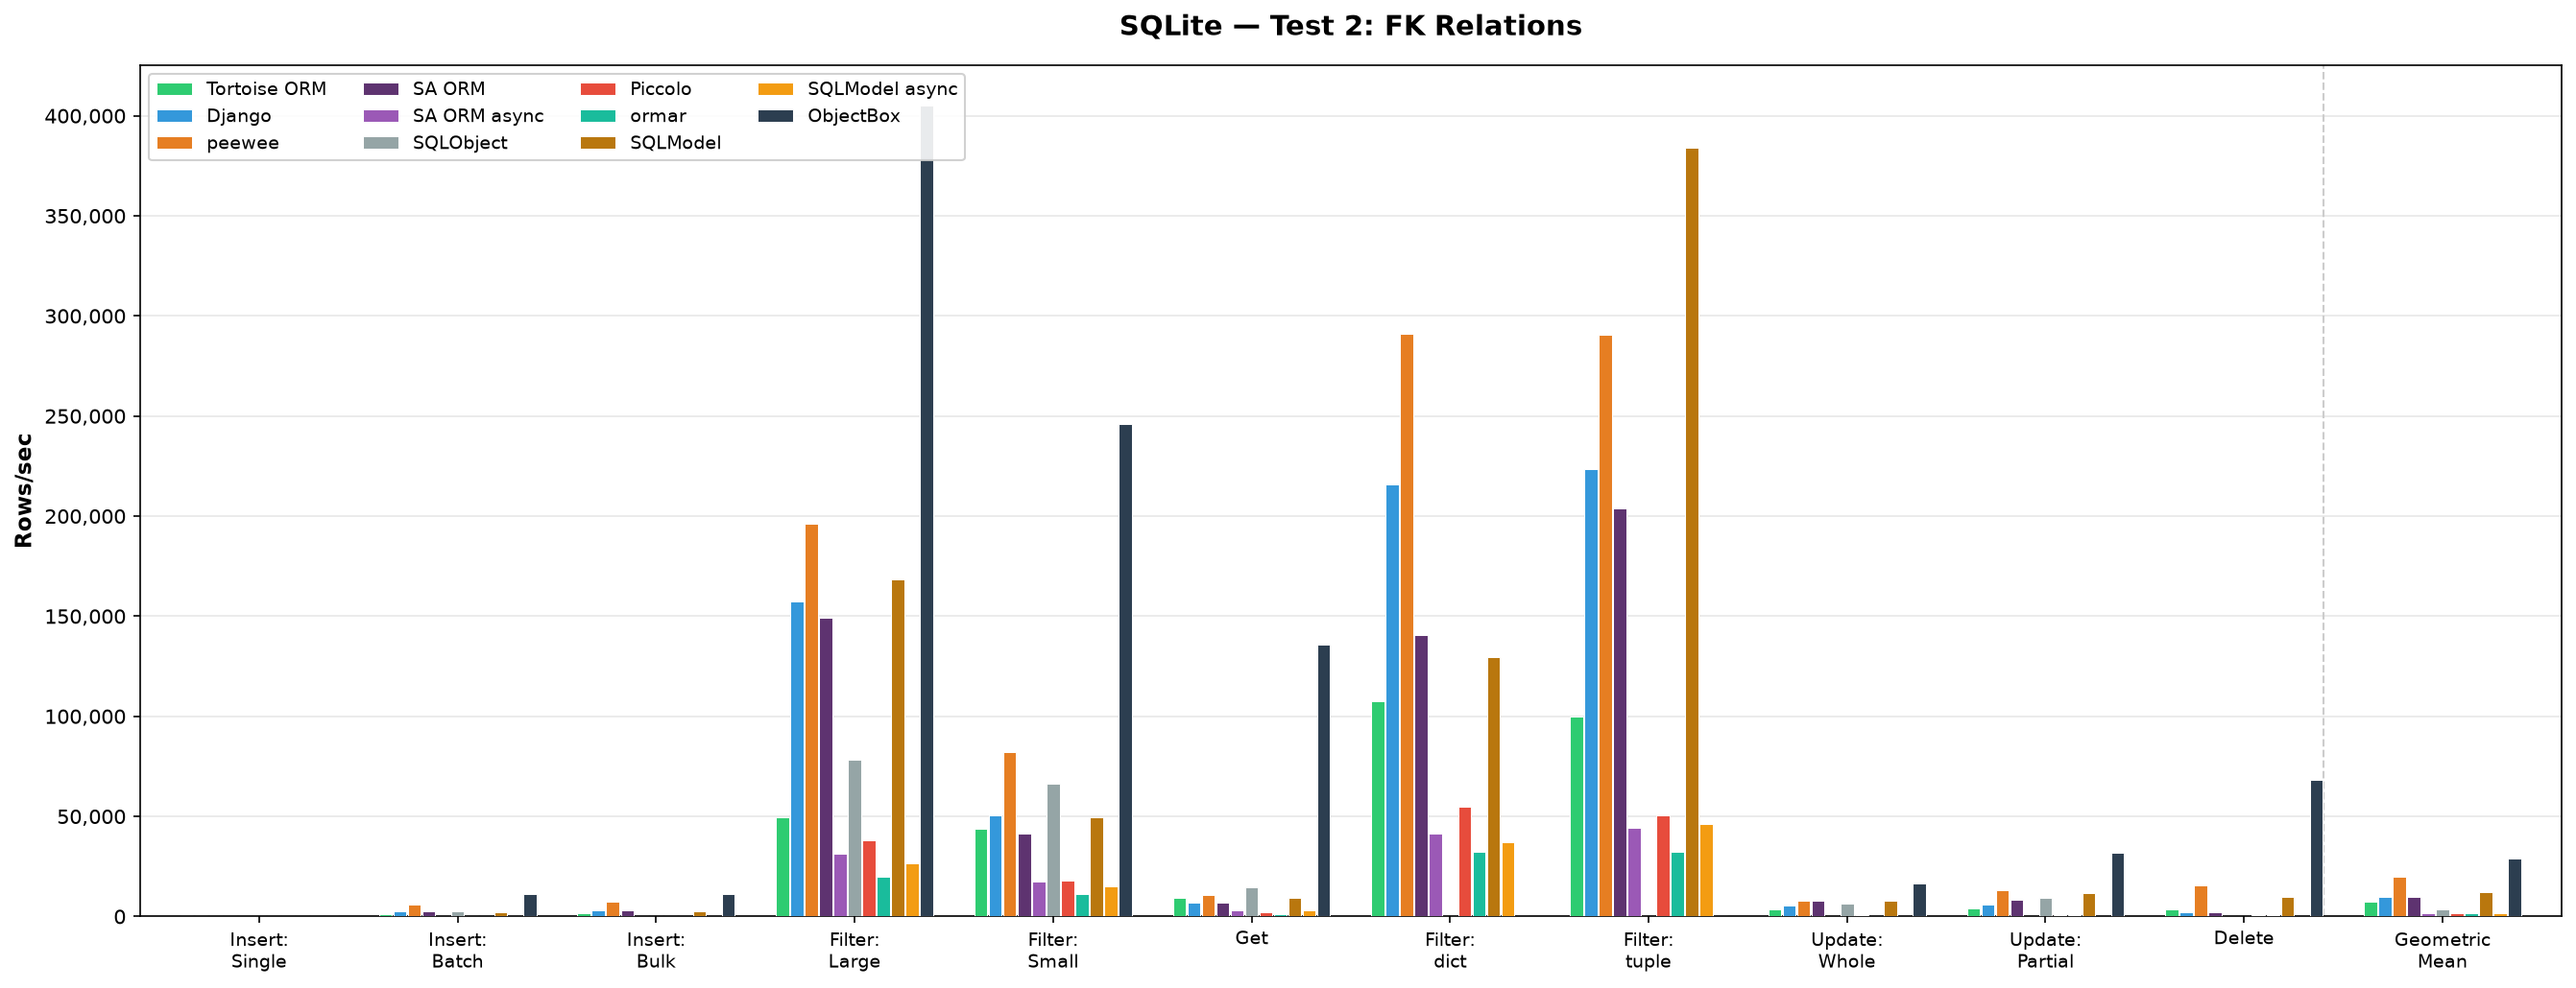
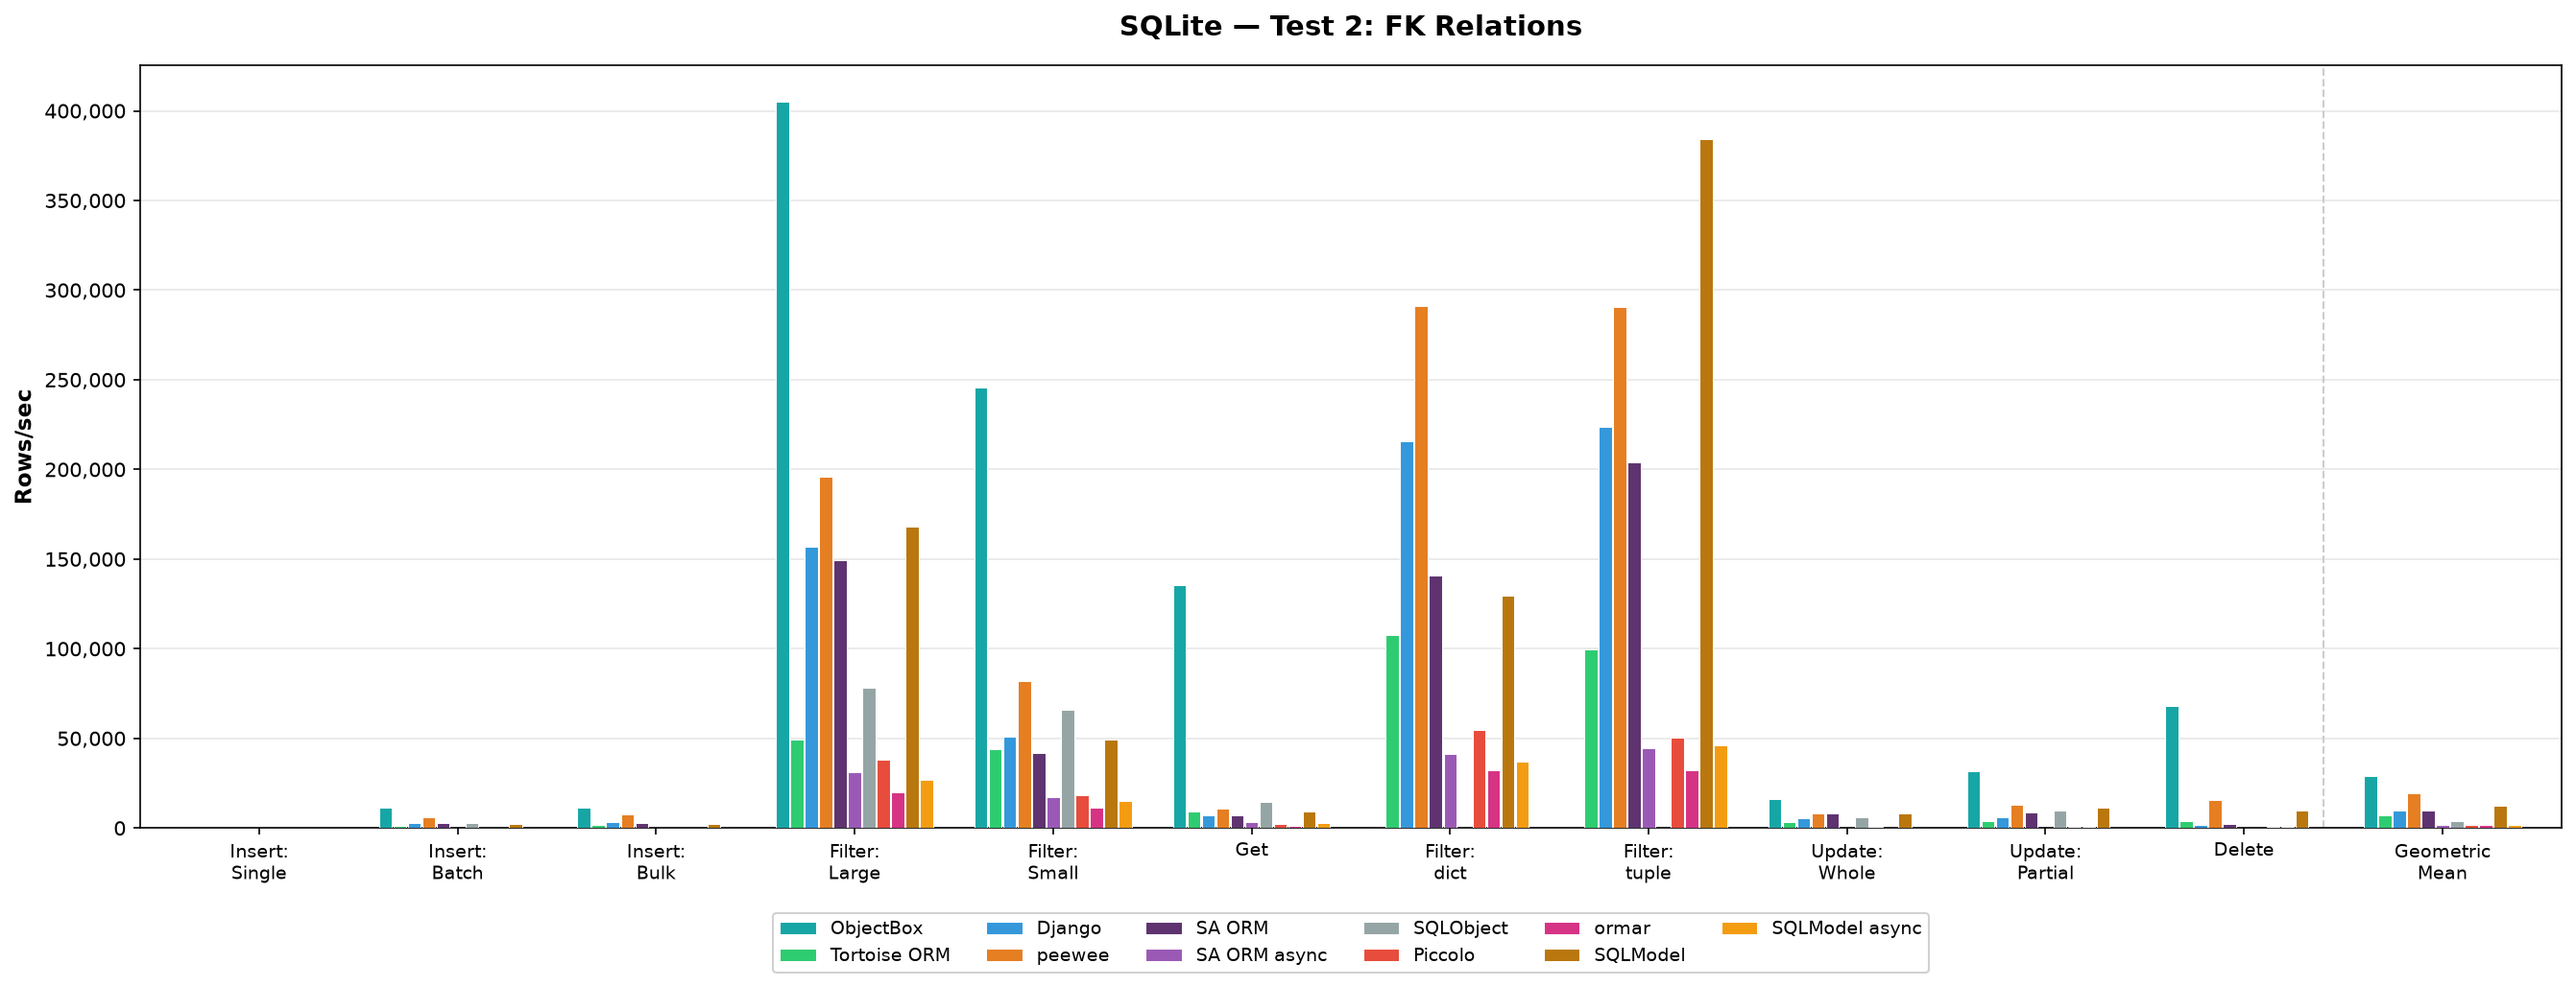
Charts: ObjectBox first in #17A6A6, ormar in magenta, legend below plots
ObjectBox is now the first ORM in the charts, in #17A6A6; ormar moves
from teal to #d63384 so the two don't look alike. The per-test charts
put the legend below the plot (like the summary chart), so it can't
cover the first bars. SQLite charts regenerated; PostgreSQL/MySQL
charts pick this up when they are next generated.

diff --git a/generate_charts.py b/generate_charts.py
@@ -34,13 +34,13 @@ ORM_COLORS = {
     "SA ORM async": "#9b59b6",
     "SQLObject": "#95a5a6",
     "Piccolo": "#e74c3c",
-    "ormar": "#1abc9c",
+    "ormar": "#d63384",
     "SQLModel": "#b9770e",
     "SQLModel async": "#f39c12",
-    "ObjectBox": "#2c3e50",
+    "ObjectBox": "#17A6A6",
 }
 
-ORM_ORDER = ["Tortoise ORM", "Django", "peewee", "SA ORM", "SA ORM async", "SQLObject", "Piccolo", "ormar", "SQLModel", "SQLModel async", "ObjectBox"]
+ORM_ORDER = ["ObjectBox", "Tortoise ORM", "Django", "peewee", "SA ORM", "SA ORM async", "SQLObject", "Piccolo", "ormar", "SQLModel", "SQLModel async"]
 OP_ORDER = list("ABCDEFGHIJK")
 
 
@@ -100,7 +100,9 @@ def generate_chart(data, title, output_path, show_geomean=True):
     ax.yaxis.set_major_formatter(ticker.FuncFormatter(lambda v, _: f"{v:,.0f}"))
     ax.grid(axis="y", alpha=0.3, zorder=0)
     ax.set_axisbelow(True)
-    ax.legend(loc="upper left", fontsize=9, ncol=min(n_orms, 4), framealpha=0.9)
+    # below the plot, so it can't cover the first bars
+    ax.legend(loc="upper center", bbox_to_anchor=(0.5, -0.1), fontsize=9,
+              ncol=min(n_orms, 6), framealpha=0.9)
     ax.set_xlim(-0.6, n_ops - 0.4)
 
     if show_geomean:
